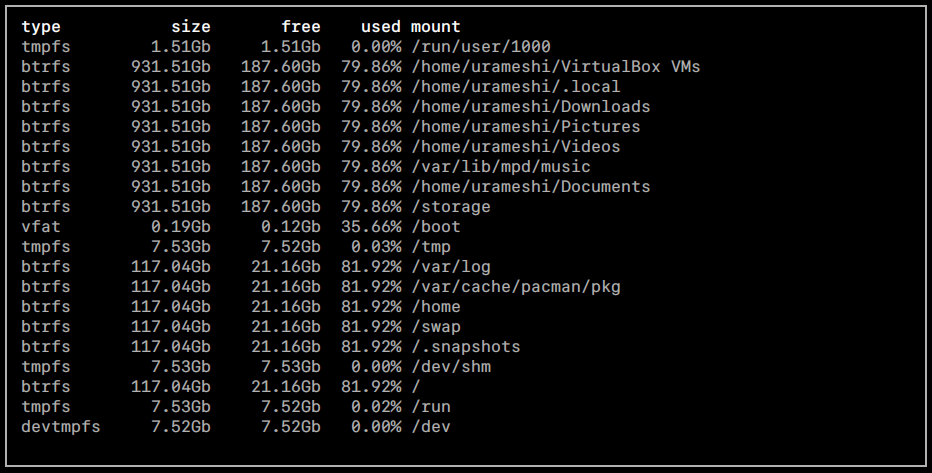
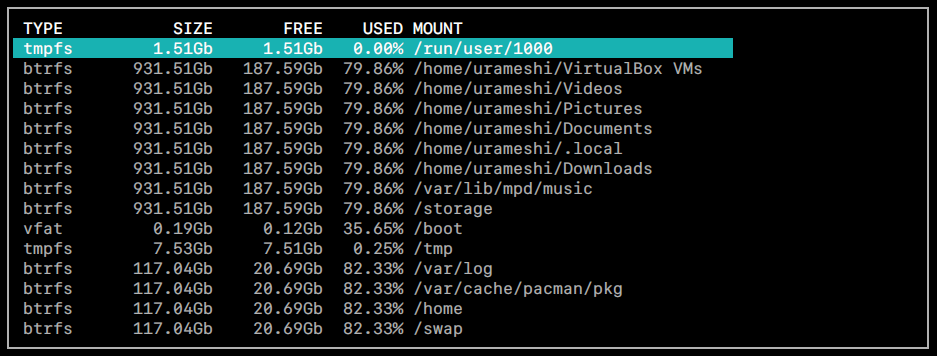
agora a tela de filesystem é navegavel, parametrizado variaveis de total, removido codigo desnecessario, arrumado para nao permitir navegar em telas nao navegaveis

Changed region(s): [[0.0, 0.0, 0.9957, 0.9888]]

diff --git a/src/toscop_win.c b/src/toscop_win.c
@@ -1,7 +1,9 @@
 #include <curses.h>
 #include <ncurses.h>
+#include <stdint.h>
 #include <stdlib.h>
 #include <assert.h>
+#include <sys/types.h>
 #include "toscop.h"
 #include "toscop_win.h"
 
@@ -27,8 +29,8 @@ static t_win* get_cwin(toscop_wm* wm);
 
 // funcoes internas para gerenciar o estado interno de cada window
 static void tab_win(toscop_wm* wm);
-static void inc_starts_at(uint64_t* st_at);
-static void sub_starts_at(uint64_t* st_at);
+static void inc_starts_at(uint64_t* st_at, uint64_t bound);
+static void sub_starts_at(uint64_t* st_at, uint64_t bound);
 
 // cria o gerenciador de window do toscop 
 toscop_wm* create_toscop_wm(void) {
@@ -62,6 +64,7 @@ static void init_wins(toscop_wm* wm) {
             MARGIN,
             th_win.height
     ); 
+    tp_win.bound = total_procs;
 
     // window do processo (w_proc)
     t_win w_proc = create_t_win(
@@ -73,11 +76,13 @@ static void init_wins(toscop_wm* wm) {
 
     // window do com informações do filesystem
     t_win fs_win = create_t_win(
-            tp_height - (LINES / 3),
+            tp_height - (LINES / 2),
             max_width - MARGIN, 
             th_win.width + MARGIN,
             w_proc.height
     );
+
+    fs_win.bound = total_fs;
 
     // window de cada sessao do toscop
     wm->th_win = th_win;
@@ -124,6 +129,7 @@ static inline t_win create_t_win(int h, int w, int x, int y) {
         .x = x,
         .y = y,
         .starts_at = 0,
+        .bound = 1, // bound em para nao quebrar as coisa bicho
     };
 }
 
@@ -170,20 +176,21 @@ static void clear_wm(toscop_wm *wm) {
     wclear(wm->fs_win.win);
 }
 
-// limita ate o maximo de procs
-static void inc_starts_at(uint64_t* st_at) { 
+// limita ate o maximo parametriza
+static void inc_starts_at(uint64_t* st_at, uint64_t bound) { 
     (*st_at)++; 
-    *st_at = *st_at % total_procs;
+    *st_at = *st_at % bound;
 }
 
-// limita ate 0, se passar vai para o ultimo proc
-static void sub_starts_at(uint64_t* st_at) {
-    *st_at = (int64_t) *st_at - 1 < 0 ? total_procs - 1 : *st_at - 1;
+// limita ate 0, se passar vai para o ultimo
+static void sub_starts_at(uint64_t* st_at, uint64_t bound) {
+    *st_at = (int64_t) (*st_at) - 1 < 0 ? bound - 1 : (*st_at) - 1;
 } 
 
 // alterna entre cada window
 static void tab_win(toscop_wm* wm) {
-    wm->c_win = (wm->c_win + 1) % (FS_WIN + 1); // fs_win é a ultima window
+    // fs_win é a ultima window navegavel
+    wm->c_win = (wm->c_win + 1) % (FS_WIN + 1); 
 }
 
 // retorna a referencia da window com base na variante de win 
@@ -206,13 +213,16 @@ static t_win* get_cwin(toscop_wm* wm) {
 // trata as teclas pressionadas
 void handle_key(toscop_wm *wm, int* k_p) {
     *k_p = wgetch(stdscr); // captura na win padrao 
-
     // para cada tecla faz uma ação
     switch (*k_p) {
         case 9: tab_win(wm); break; // 9 é o codigo da tecla tab
         case KEY_RESIZE: resize_win(wm); break;
-        case KEY_DOWN: inc_starts_at(&get_cwin(wm)->starts_at); break;
-        case KEY_UP: sub_starts_at(&get_cwin(wm)->starts_at); break;
+        case KEY_DOWN: {
+            inc_starts_at(&get_cwin(wm)->starts_at, get_cwin(wm)->bound);
+        } break;
+        case KEY_UP: {
+            sub_starts_at(&get_cwin(wm)->starts_at, get_cwin(wm)->bound);
+        } break;
         default:
             break;
     }
@@ -220,17 +230,6 @@ void handle_key(toscop_wm *wm, int* k_p) {
 
 // mostra informacoes globais de debug
 void show_debug_info(toscop_wm* wm, double refresh_t) {
-    uint64_t st = wm->tp_win.starts_at; // caso default fica na win da lista de procs
-
-    // pega o starts_at com base na tela selecionada
-    switch (wm->c_win) {
-        case PROC_WIN: st = wm->proc_win.starts_at; break;
-        case TH_WIN: st = wm->th_win.starts_at; break;
-        case FS_WIN: st = wm->fs_win.starts_at; break;
-        case TP_WIN: 
-        default:
-            break;
-    }
 
     mvwprintw(
         stdscr, LINES - 2, 0,
@@ -240,7 +239,8 @@ void show_debug_info(toscop_wm* wm, double refresh_t) {
         ",  starts_at: %lu"
         ",  refresh_t: %lf\n",
         fdebug, wm->c_win, 
-        total_procs, st, refresh_t
+        total_procs, get_cwin(wm)->starts_at, 
+        refresh_t
     );
     refresh();
 }
@@ -248,12 +248,12 @@ void show_debug_info(toscop_wm* wm, double refresh_t) {
 // mostra todos as window do toscop
 // todas informacoes mostradas sao de variaveis globais
 void show_toscop(toscop_wm* wm) {
-    clear_wm(wm);                                          // limpa todas as win
-    th_print(th, wm);                                      // printa o term_header
-    tp_print(tp, wm, wm->tp_win.starts_at, total_procs);   // printa o term_procs
-    tfs_print(tfs, wm->fs_win);                            // printa o term_fs
-    draw_wmborders(wm);                                    // desenha borda
-    refresh_wm(wm);                                        // escreve de fato na tela
+    clear_wm(wm);                 // limpa todas as win
+    th_print(th, wm);             // printa o term_header
+    tp_print(tp, wm);             // printa o term_procs
+    tfs_print(tfs, wm->fs_win);   // printa o term_fs
+    draw_wmborders(wm);           // desenha borda
+    refresh_wm(wm);               // escreve de fato na tela
 }
 
 // deleta todas as window criadas

diff --git a/src/term_fs.c b/src/term_fs.c
@@ -1,3 +1,5 @@
+#include <curses.h>
+#include <ncurses.h>
 #include <stdio.h>
 #include <stdlib.h>
 #include <string.h>
@@ -8,6 +10,8 @@
 #include "term_fs.h"
 #include "toscop.h"
 #include "toscop_win.h"
+
+uint64_t total_fs = 0;
 
 static void read_fs(term_fs* tfs);
 static FsList* add_w_fs(FsList* lfs, w_fs* fs);
@@ -46,7 +50,7 @@ static void read_fs(term_fs* tfs) {
     // a syscall statfs retorna um struct statfs
 
     assert(tfs != NULL);
-    tfs->fs_list = NULL;
+    tfs->fs_list = NULL; // inicializa lfs
 
     FILE* mnt_file = setmntent("/proc/self/mounts", "r");
     if (mnt_file == NULL) {
@@ -94,7 +98,7 @@ static void read_fs(term_fs* tfs) {
 
         // add to lfs
         tfs->fs_list = add_w_fs(tfs->fs_list, fs);
-
+        total_fs++; // total de filesystem lido
     }
 
     // para limpar o struct mntent
@@ -118,9 +122,23 @@ static void print_w_fs(w_fs* fs, t_win fs_win) {
 static void print_lfs(FsList* lfs, t_win fs_win) {
 
     assert(lfs != NULL);
-    
-    for (FsList* aux = lfs; aux != NULL; aux = aux->next_lfs) {
-        print_w_fs(aux->fs, fs_win);
+    FsList* aux = lfs;
+    uint64_t i = 0;
+
+    // passa n primeiros
+    for (; aux != NULL && i < fs_win.starts_at; ++i)
+        aux = aux->next_lfs;
+
+    for (; aux != NULL; aux = aux->next_lfs) {
+        // caso for o item selecionado printa com fg e bg invertidos
+        if (i == fs_win.starts_at) {
+            wattron(fs_win.win, COLOR_PAIR(2) | A_BOLD);
+            print_w_fs(aux->fs, fs_win);
+            wattroff(fs_win.win, COLOR_PAIR(2) | A_BOLD);
+        } else {
+            print_w_fs(aux->fs, fs_win);
+        }
+        i++;
     }
 }
 
@@ -130,7 +148,7 @@ void tfs_print(term_fs *tfs, t_win fs_win) {
     assert(tfs->fs_list != NULL);
     assert(fs_win.win != NULL);
 
-    FORMAT(wprintw, fs_win.win, A_BOLD, "\n  type\t\t size\t    free    used mount\n");
+    FORMAT(wprintw, fs_win.win, A_BOLD, "\n  TYPE\t\t SIZE\t    FREE    USED MOUNT\n");
     print_lfs(tfs->fs_list, fs_win);
 }
 

diff --git a/src/toscop.c b/src/toscop.c
@@ -68,8 +68,6 @@ void cli(int argc, char **argv) {
 // inicializa os structs necessarios, screens, e cria as threads do toscop
 // faz o loop principal, o join e limpa todos os recursos utilizados
 void run(void) {
-    // inicializa ncurses e as window do toscop
-    wm = create_toscop_wm(); 
 
     // inicializa o unico mutex das threads
     pthread_mutex_init(&toscop_mutex, NULL);
@@ -92,6 +90,9 @@ void run(void) {
 
     // tfs tema listsa com os fs
     tfs = create_term_fs();
+
+    // inicializa ncurses e as window do toscop
+    wm = create_toscop_wm(); 
 
     // thread para printar os processos
     toscop_thread_t print_thread;

diff --git a/src/term_procs.c b/src/term_procs.c
@@ -95,8 +95,13 @@ void tp_free(term_procs *tp) {
 }
 
 // printa a lista de procs
-void tp_print(term_procs* tp, toscop_wm* wm, uint64_t starts_at, uint64_t max_rows){
+void tp_print(term_procs* tp, toscop_wm* wm){
     assert(tp->proc_list_tail != NULL);
     FORMAT(wprintw, wm->tp_win.win, A_BOLD,"\n     PID USER       PR  NI S COMMAND\n");
-    print_proclist(tp->proc_list_tail, starts_at, max_rows + starts_at, wm);
+    print_proclist(
+            tp->proc_list_tail, 
+            wm->tp_win.starts_at, 
+            total_procs + wm->tp_win.starts_at,
+            wm
+    );
 }

diff --git a/include/term_fs.h b/include/term_fs.h
@@ -4,7 +4,6 @@
 #include <stdint.h>
 #include <sys/statfs.h>
 #include "toscop_win.h"
-
 #define GB (double) (1024 * 1024 * 1024)
 
 // wrapper do struct statfs
@@ -27,6 +26,7 @@ typedef struct term_fs {
     FsList* fs_list;
 } term_fs;
 
+extern uint64_t total_fs;
 
 extern term_fs* create_term_fs(void); 
 extern void tfs_print(term_fs* tfs, t_win fs_win);

diff --git a/include/toscop_win.h b/include/toscop_win.h
@@ -16,14 +16,15 @@ typedef struct t_win {
     int x;
     int y;
     uint64_t starts_at;
+    uint64_t bound;
 } t_win;
 
 // enum para alternar entre as window
 typedef enum WIN_TABS {
-    TH_WIN = 0,
-    TP_WIN,
-    PROC_WIN,
+    TP_WIN = 0,
     FS_WIN,
+    PROC_WIN,
+    TH_WIN,
 } WIN_TABS;
 
 /*

diff --git a/include/term_procs.h b/include/term_procs.h
@@ -13,7 +13,7 @@ typedef struct term_procs {
 } term_procs;
 
 extern term_procs* create_term_procs(void);
-extern void tp_print(term_procs* tp, toscop_wm* wm, uint64_t starts_at, uint64_t max_rows);
+extern void tp_print(term_procs* tp, toscop_wm* wm);
 extern void tp_free(term_procs* tp);
 
 

diff --git a/toscop.tex b/toscop.tex
@@ -231,6 +231,7 @@ typedef struct t_win {
     int x;
     int y;
     uint64_t starts_at;
+    uint64_t bound;
 } t_win;
 // estrutura para genrenciamento das telas do ncurses
 typedef struct toscop_wm {
